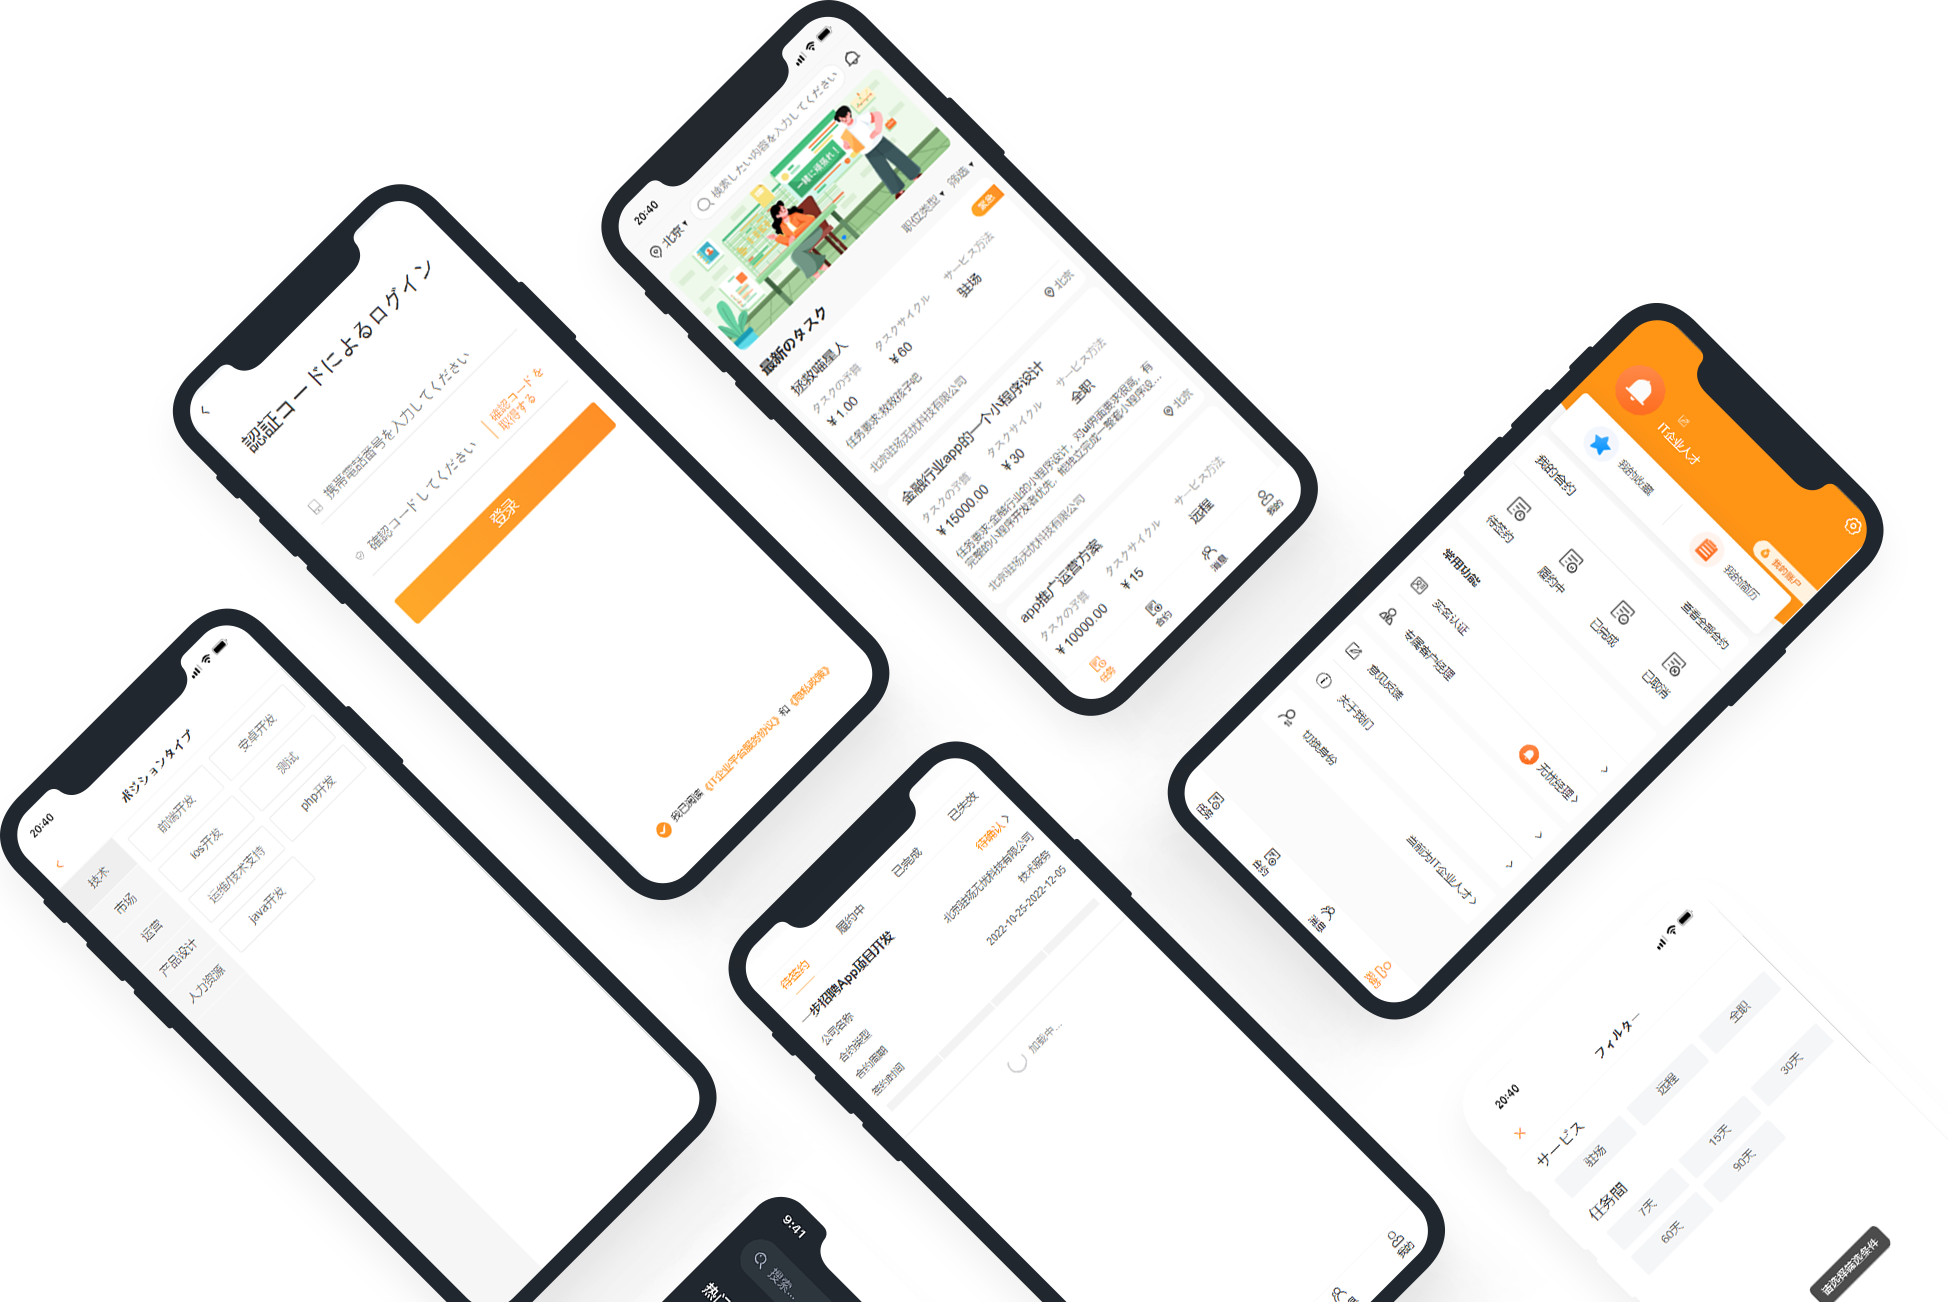
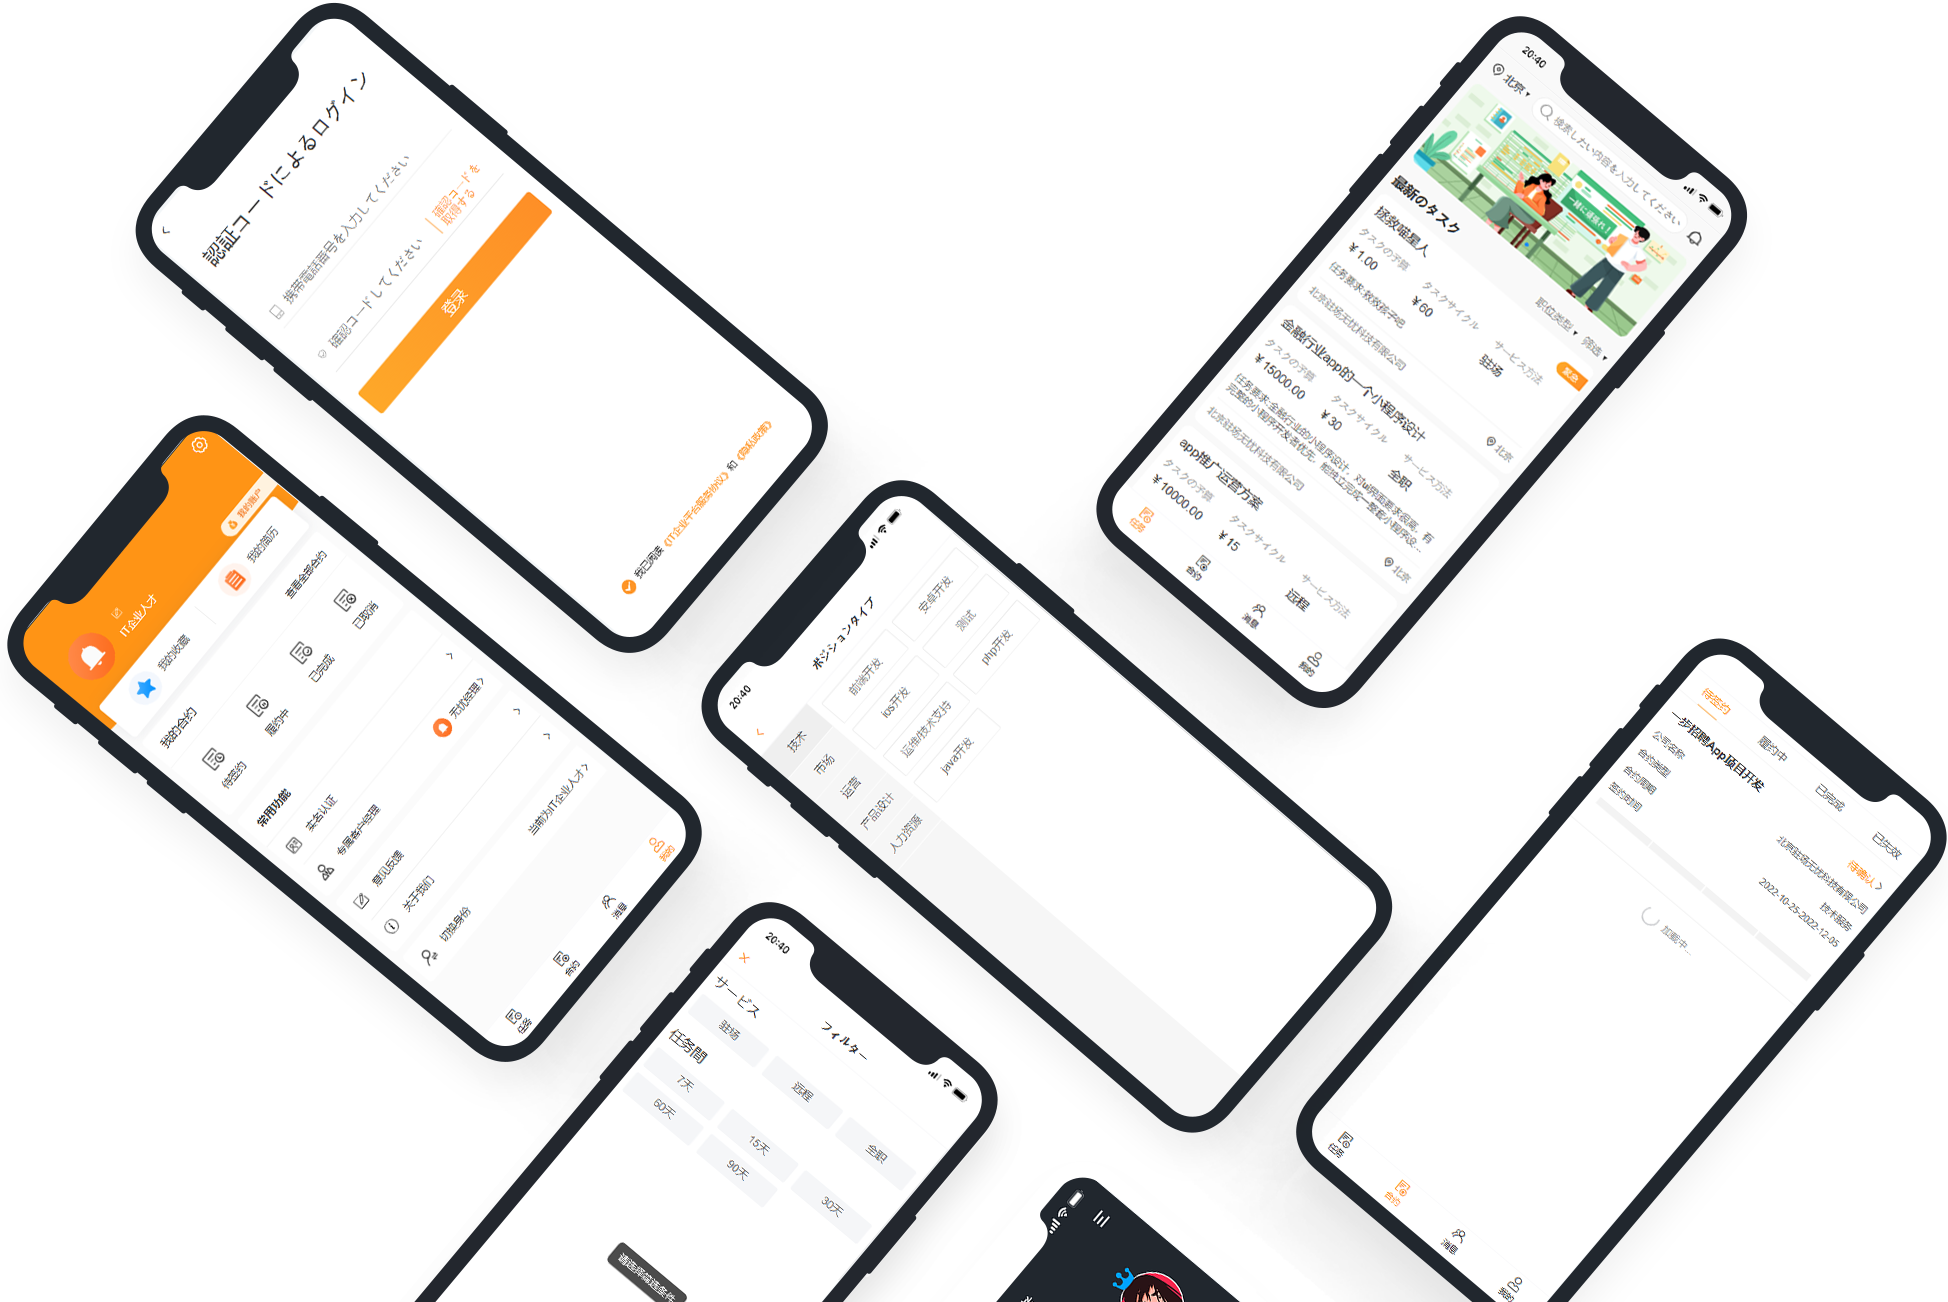
调整了作品相对位置

diff --git a/main.css b/main.css
@@ -592,7 +592,7 @@ a.second-link:hover {
   margin-top: 20px;
   display: flex;
   justify-content: center;
-  height: 400px;
+  height: 550px;
   position: absolute;
   bottom: 100px;
 }
@@ -870,7 +870,7 @@ span.avatar-name {
   .banner-pic {
     margin-top: 20px;
     height: 200px;
-    bottom: 40px;
+    bottom: 240px;
   }
 
   .product-banner {

diff --git a/index.html b/index.html
@@ -2,7 +2,7 @@
 <html lang="zh-CN">
 
 <head>
-  <base href="/index_blog/">
+  <!-- <base href="/index_blog/"> -->
   <meta charset="UTF-8">
   <meta http-equiv="X-UA-Compatible" content="IE=edge">
   <meta name="viewport" content="width=device-width, initial-scale=1.0">
